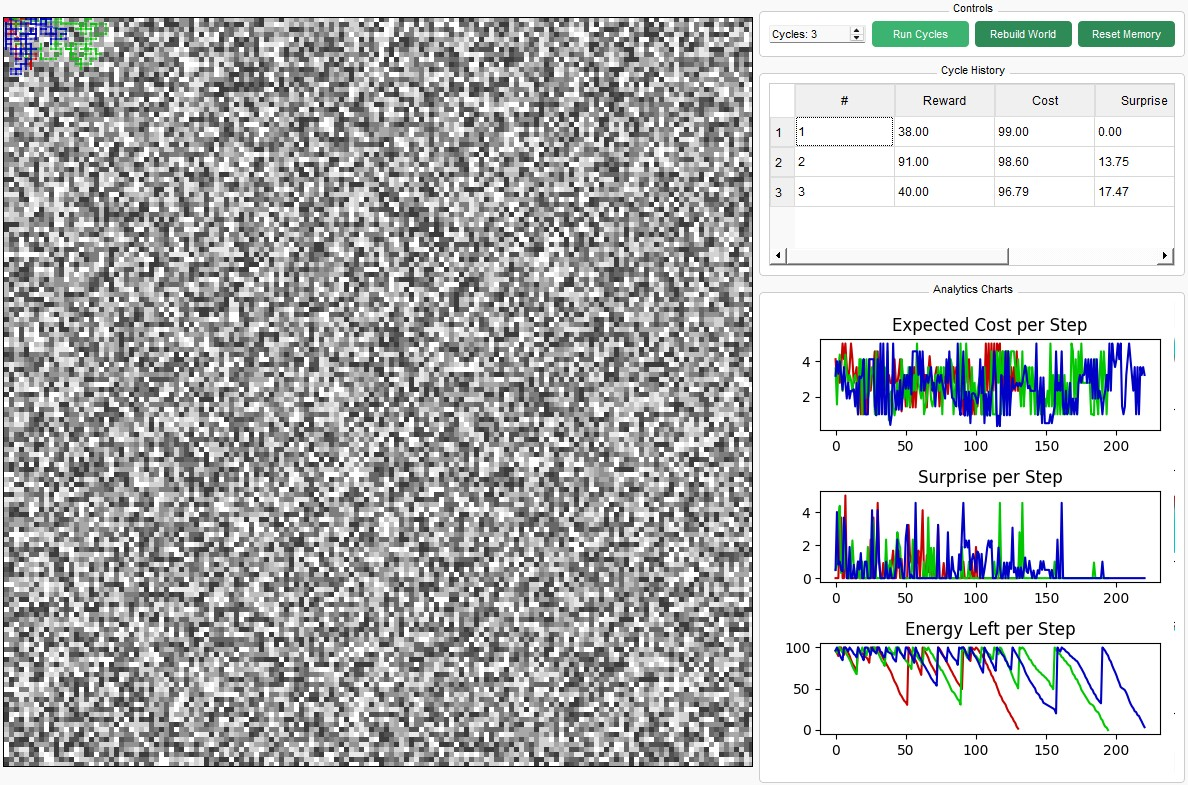
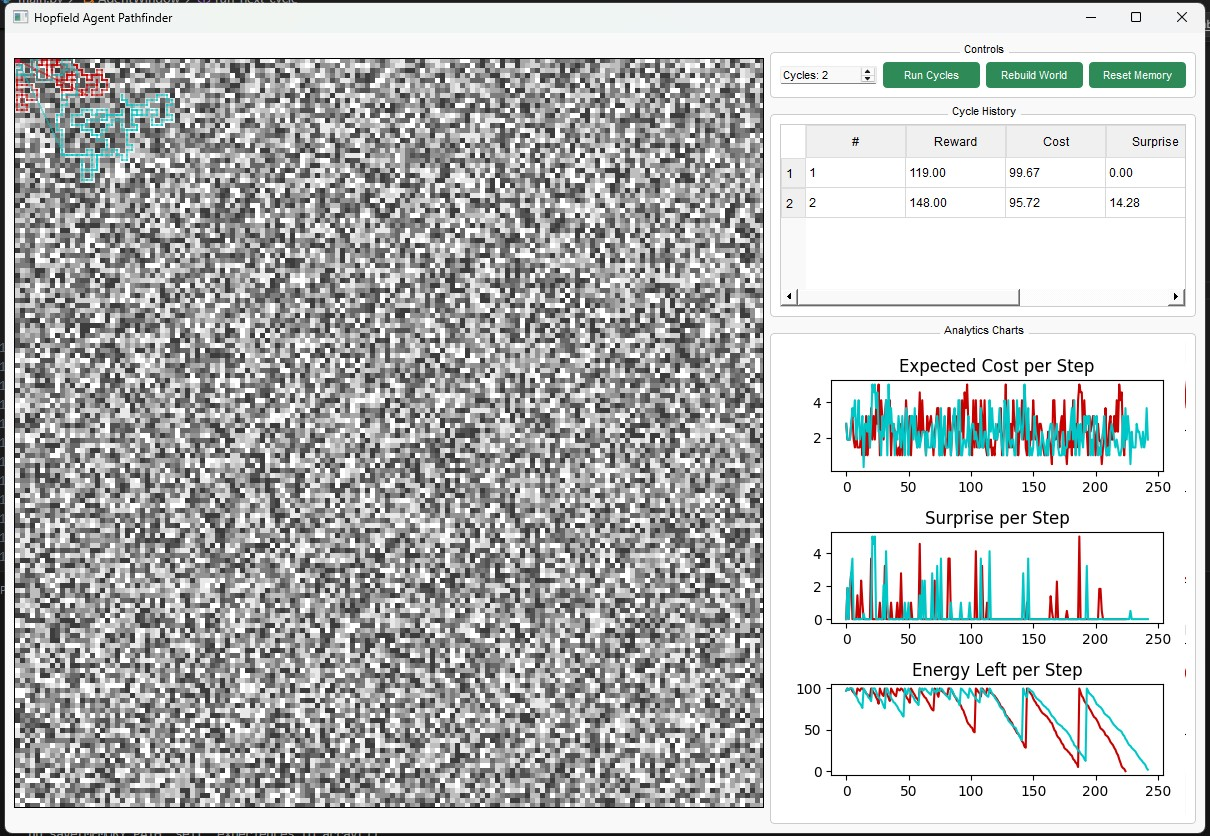
fixed hopfield memory and cell selection

diff --git a/agent.py b/agent.py
@@ -6,6 +6,7 @@ import random
 import time
 from dataclasses import dataclass, field
 from typing import Dict, List, Optional, Tuple
+from collections import defaultdict
 
 import numpy as np
 import torch
@@ -18,7 +19,7 @@ from world import BASE_CELL_COST, GridWorld, WORLD_PATH
 Coord = Tuple[int, int]
 MEMORY_PATH = "save/memory.npy"
 CYCLE_PATH = "save/cycles.npy"
-
+ALPHA = 1.0
 
 def euclidean(a: Coord, b: Coord) -> float:
     return math.hypot(a[0] - b[0], a[1] - b[1])
@@ -30,9 +31,7 @@ class CellExperience:
     expected_cost: float
     actual_cost: float
     surprise: float
-    timestamp: float = field(default_factory=time.time)
-
-
+    
 @dataclass
 class CycleSummary:
     reward: float
@@ -40,6 +39,22 @@ class CycleSummary:
     surprise: float
     energy_left: float
     steps: List[Coord]
+    timestamp: float = field(default_factory=time.time)
+    
+@dataclass
+class CellStats:
+    visits: int = 0
+    exp_cost: float = 0.0
+    exp_surprise: float = 0.0
+    exp_reward: float = 0.0
+
+@dataclass
+class StepExperience:
+    position: Coord
+    shade: int
+    expected_cost: float
+    actual_cost: float
+    surprise: float
     timestamp: float = field(default_factory=time.time)
 
 
@@ -69,36 +84,71 @@ class Memory:
         self.cell_records: Dict[str, List[CellExperience]] = {}
         self.cycles: List[CycleSummary] = []
         self.hopfield = HopfieldMemory(key_dim, value_dim=1, capacity=hop_capacity)
-
-    _cell_dtype = np.dtype([
-        ("x", "i4"), ("y", "i4"), ("shade", "i4"),
-        ("expected_cost", "f4"), ("actual_cost", "f4"), ("surprise", "f4"), ("timestamp", "f8")
-    ])
+        
+        self._cells: Dict[Coord, CellStats] = defaultdict(CellStats)
+        self._raw_steps: List[StepExperience] = []
+        
     _cycle_dtype = np.dtype([
         ("reward", "f4"), ("cost", "f4"), ("surprise", "f4"),
         ("energy_left", "f4"), ("timestamp", "f8")
     ])
+    
+    _step_dtype = np.dtype([
+        ("x",            "i4"),
+        ("y",            "i4"),
+        ("shade",        "i4"),
+        ("expected_cost","f4"),
+        ("actual_cost",  "f4"),
+        ("surprise",     "f4"),
+        ("timestamp",    "f8"),
+    ])
 
     def _experiences_to_array(self) -> np.ndarray:
-        rows = []
-        for key, exps in self.cell_records.items():
-            x_str, y_str = key.split(",")
-            x, y = int(x_str), int(y_str)
-            for e in exps:
-                rows.append((x, y, e.shade, e.expected_cost, e.actual_cost, e.surprise, e.timestamp))
-        return np.array(rows, dtype=self._cell_dtype) if rows else np.empty((0,), dtype=self._cell_dtype)
+        rows = [
+            (exp.position[0], exp.position[1], exp.shade,
+             exp.expected_cost, exp.actual_cost,
+             exp.surprise, exp.timestamp)
+            for exp in self._raw_steps
+        ]
+        return (
+            np.array(rows, dtype=self._step_dtype)
+            if rows else np.empty((0,), dtype=self._step_dtype)
+        )
+
+    def _array_to_experiences(self, arr: np.ndarray) -> None:
+        self._raw_steps.clear()
+        for rec in arr:
+            self._raw_steps.append(
+                StepExperience(
+                    position       =(int(rec["x"]), int(rec["y"])),
+                    shade          = int(rec["shade"]),
+                    expected_cost  = float(rec["expected_cost"]),
+                    actual_cost    = float(rec["actual_cost"]),
+                    surprise       = float(rec["surprise"]),
+                    timestamp      = float(rec["timestamp"]),
+                )
+            )
+    
+    def add_step(self, coord: Coord, cost: float, surprise: float):
+        c = self._cells[coord]
+        c.visits += 1
+        c.exp_cost     += (cost     - c.exp_cost)     / c.visits
+        c.exp_surprise += (surprise - c.exp_surprise) / c.visits
+        
+    def add_experience(self, exp: StepExperience) -> None:
+        self._raw_steps.append(exp)
+        # also funnel the data into the running per‑cell stats
+        self.add_step(exp.position, exp.actual_cost, exp.surprise)
+
+    def add_cycle_reward(self, path: list[Coord], reward: float):
+        for coord in set(path):
+            c = self._cells[coord]
+            n = c.visits
+            c.exp_reward += (reward - c.exp_reward) / n
 
     def _cycles_to_array(self) -> np.ndarray:
         rows = [(c.reward, c.cost, c.surprise, c.energy_left, c.timestamp) for c in self.cycles]
         return np.array(rows, dtype=self._cycle_dtype) if rows else np.empty((0,), dtype=self._cycle_dtype)
-
-    def _array_to_experiences(self, arr: np.ndarray):
-        self.cell_records.clear()
-        for rec in arr:
-            coord = (int(rec["x"]), int(rec["y"]))
-            key = f"{coord[0]},{coord[1]}"
-            exp = CellExperience(coord, int(rec["shade"]), float(rec["expected_cost"]), float(rec["actual_cost"]), float(rec["surprise"]), float(rec["timestamp"]))
-            self.cell_records.setdefault(key, []).append(exp)
 
     def _array_to_cycles(self, arr: np.ndarray):
         self.cycles.clear()
@@ -155,18 +205,14 @@ class Memory:
             len(steps), net_disp, eff, neigh_mean, neigh_var, cost, surprise, energy_left, 0.0, 0.0
         ], dtype=torch.float32)
 
-    def add_experience(self, exp: CellExperience):
-        key = f"{exp.position[0]},{exp.position[1]}"
-        self.cell_records.setdefault(key, []).append(exp)
-        self.save_to_file()
-
     def get_expected_cost(self, coord: Coord) -> Optional[float]:
-        recs = self.cell_records.get(f"{coord[0]},{coord[1]}")
-        return sum(r.actual_cost for r in recs) / len(recs) if recs else None
+        return self._cells.get(coord).exp_cost if coord in self._cells else None
 
     def get_expected_surprise(self, coord: Coord) -> Optional[float]:
-        recs = self.cell_records.get(f"{coord[0]},{coord[1]}")
-        return sum(r.surprise for r in recs) / len(recs) if recs else None
+        return self._cells.get(coord).exp_surprise if coord in self._cells else None
+
+    def get_expected_reward(self, coord: Coord) -> Optional[float]:
+        return self._cells.get(coord).exp_reward if coord in self._cells else None
 
     def add_cycle(self, summary: CycleSummary, world: GridWorld):
         self.cycles.append(summary)
@@ -205,6 +251,7 @@ class Agent:
 
     def end_cycle(self, world):
         reward = euclidean(self.origin, self.position) + len(self._cycle_steps)
+        self.memory.add_cycle_reward(self._cycle_steps, reward)
         summary = CycleSummary(reward, self._cycle_cost, self._cycle_surprise, self.energy, self._cycle_steps.copy())
         self.memory.add_cycle(summary,world)
         # reset for next cycle
@@ -223,39 +270,51 @@ class Agent:
         if candidates:
             return max(candidates, key=lambda p: p.expected_reward)
         return self._generate_plan(world)
-    
-    def _choose_weighted_neighbour(self, world: GridWorld, x: int, y: int) -> Coord:
+        
+    def _choose_neighbour(self, world, x, y, visited):
         neighbours = world.get_neighbors(x, y)
-        scored, unknown = [], []
+        best_score = float("inf")
+        best       = []
+
         for nx, ny in neighbours:
-            exp_cost = self.memory.get_expected_cost((nx, ny))
-            exp_surprise = self.memory.get_expected_surprise((nx, ny))
-            if exp_cost is None:
-                unknown.append((nx, ny))
-            else:
-                efe = exp_cost + (exp_surprise or 0.0)
-                scored.append((efe, (nx, ny)))
-        if scored:
-            best_efe = min(efe for efe, _ in scored)
-            best = [coord for efe, coord in scored if math.isclose(efe, best_efe, rel_tol=1e-6)]
-            return random.choice(best) # tie‑break randomly
-        return random.choice(unknown)
+            if (nx, ny) in visited:
+                continue
+
+            # Fall back to immediate model cost if we have no memory yet
+            cost     = self.memory.get_expected_cost((nx, ny))
+            if cost is None:
+                cost = world.get_energy_cost(nx, ny)      # <‑‑ change
+            surprise = self.memory.get_expected_surprise((nx, ny)) or 0.0
+            reward   = self.memory.get_expected_reward((nx, ny))    or 0.0
+
+            efe   = cost + surprise
+            score = efe - ALPHA * reward
+
+            if score < best_score - 1e-9:
+                best_score, best = score, [(nx, ny)]
+            elif math.isclose(score, best_score, rel_tol=1e-6):
+                best.append((nx, ny))
+
+        # If several ties remain, pick one at random
+        return random.choice(best) if best else random.choice(neighbours)
 
     def _generate_plan(self, world: GridWorld) -> Plan:
         steps: List[Coord] = []
         costs: List[Tuple[float, float]] = []  # (cost, surprise)
         x, y = self.position
+        visited = {(x, y)}
         while self.energy - sum(c for c, _ in costs) >= BASE_CELL_COST:
             neighbors = world.get_neighbors(x, y)
             if not neighbors:
                 break
-            nx, ny = self._choose_weighted_neighbour(world, x, y)
+            nx, ny = self._choose_neighbour(world, x, y, visited)
             model_cost = world.get_energy_cost(nx, ny)
             exp_cost = self.memory.get_expected_cost((nx, ny)) or model_cost
             exp_surp = self.memory.get_expected_surprise((nx, ny)) or 0.0
             if sum(c for c, _ in costs) + exp_cost > self.energy:
                 break
             steps.append((nx, ny))
+            visited.add((nx, ny))
             costs.append((exp_cost, exp_surp))
             x, y = nx, ny
         plan = Plan(steps)
@@ -273,10 +332,16 @@ class Agent:
                     self.energy = self.max_energy
                 else:
                     self.energy -= cost
-                # record experience
-                self.memory.add_experience(CellExperience((x, y), int(world.grid[y, x]), exp_cost, actual_cost, surprise))
                 # cycle accumulators
                 self.record_step((x, y), cost, surprise)
+                exp = StepExperience(
+                    position      = (x, y),
+                    shade         = int(world.grid[y, x]),
+                    expected_cost = exp_cost,
+                    actual_cost   = actual_cost,
+                    surprise      = surprise,
+                )
+                self.memory.add_experience(exp)   # <- this now activates the GUI wrapper
                 # move agent
                 self._prev_pos = self.position
                 self.position = (x, y)

diff --git a/main.py b/main.py
@@ -7,7 +7,7 @@ from typing import List, Optional
 import colorsys
 from PyQt5 import QtCore, QtGui, QtWidgets
 
-from agent import Agent, Plan, Memory, euclidean, MEMORY_PATH
+from agent import Agent, Plan, Memory, euclidean, MEMORY_PATH, StepExperience
 from world import GridWorld, WORLD_PATH, BASE_CELL_COST, Coord
 
 import matplotlib.pyplot as plt
@@ -95,35 +95,70 @@ class AgentWindow(QtWidgets.QMainWindow):
         self.trails.clear(); self.step_history.clear(); self.pending = self.spin_cycles.value(); self.run_next_cycle()
 
     def run_next_cycle(self):
+        # 1. Finished?
         if self.pending <= 0:
-            self.save_cycle_history(); return
-        self.trails.append([]); self.step_history.append([])
-        self.world.reset_cycle(); self.agent.start_cycle()
+            self.save_cycle_history()
+            return
+
+        # 2. Prepare UI / agent for a fresh cycle
+        self.trails.append([])            # store coloured segments
+        self.step_history.append([])      # per‑step stats for charts
+        self.world.reset_cycle()
+        self.agent.start_cycle()
         old_explored = self.world.explored.copy()
+
+        # 3. Choose a plan
         self.current_plan = self.agent.choose_plan(self.world)
-        # collect per‑step
+
+        # 4. Wrap Memory.add_experience so we can tap each StepExperience
         orig_add = self.agent.memory.add_experience
-        def wrapped(exp):
+
+        def wrapped(exp: StepExperience):
+            # Forward to the real recorder
             orig_add(exp)
-            self.step_history[-1].append({"expected_cost": exp.expected_cost, "actual_cost": exp.actual_cost, "surprise": exp.surprise, "energy": self.agent.energy})
+
+            # Log data the charts need
+            self.step_history[-1].append(
+                {
+                    "expected_cost": exp.expected_cost,
+                    "actual_cost":   exp.actual_cost,
+                    "surprise":      exp.surprise,
+                    "energy":        self.agent.energy,
+                }
+            )
+
         self.agent.memory.add_experience = wrapped
-        self.agent.execute_plan(self.current_plan, self.world, repaint_cb=self.repaint_and_update_charts)
-        self.agent.memory.add_experience = orig_add  # restore
-        # summary row
+
+        # 5. Execute the plan (updates UI via repaint_cb)
+        self.agent.execute_plan(
+            self.current_plan,
+            self.world,
+            repaint_cb=self.repaint_and_update_charts,
+        )
+
+        # 6. Restore original method
+        self.agent.memory.add_experience = orig_add
+
+        # 7. Summarise the cycle
         self.cycles_run += 1
         new_cells = int((~old_explored & self.world.explored).sum())
-        dist = euclidean(self.agent.origin, self.agent.position)
-        reward = dist + new_cells
+        dist       = euclidean(self.agent.origin, self.agent.position)
+        reward     = dist + new_cells
+
         stats = {
-            "cycle": self.cycles_run,
-            "reward": reward,
-            "cost": self.current_plan.expected_energy_cost,
+            "cycle":    self.cycles_run,
+            "reward":   reward,
+            "cost":     self.current_plan.expected_energy_cost,
             "surprise": self.current_plan.expected_surprise,
-            "energy": self.agent.energy,
+            "energy":   self.agent.energy,
         }
-        self.cycle_history.append(stats); self.add_history_row(stats); self.update_charts()
-        self.pending -= 1; QtCore.QTimer.singleShot(100, self.run_next_cycle)
-        
+        self.cycle_history.append(stats)
+        self.add_history_row(stats)
+        self.update_charts()
+
+        # 8. Queue the next cycle
+        self.pending -= 1
+        QtCore.QTimer.singleShot(100, self.run_next_cycle)
         
     @staticmethod
     def format_trend(delta: float) -> str:
